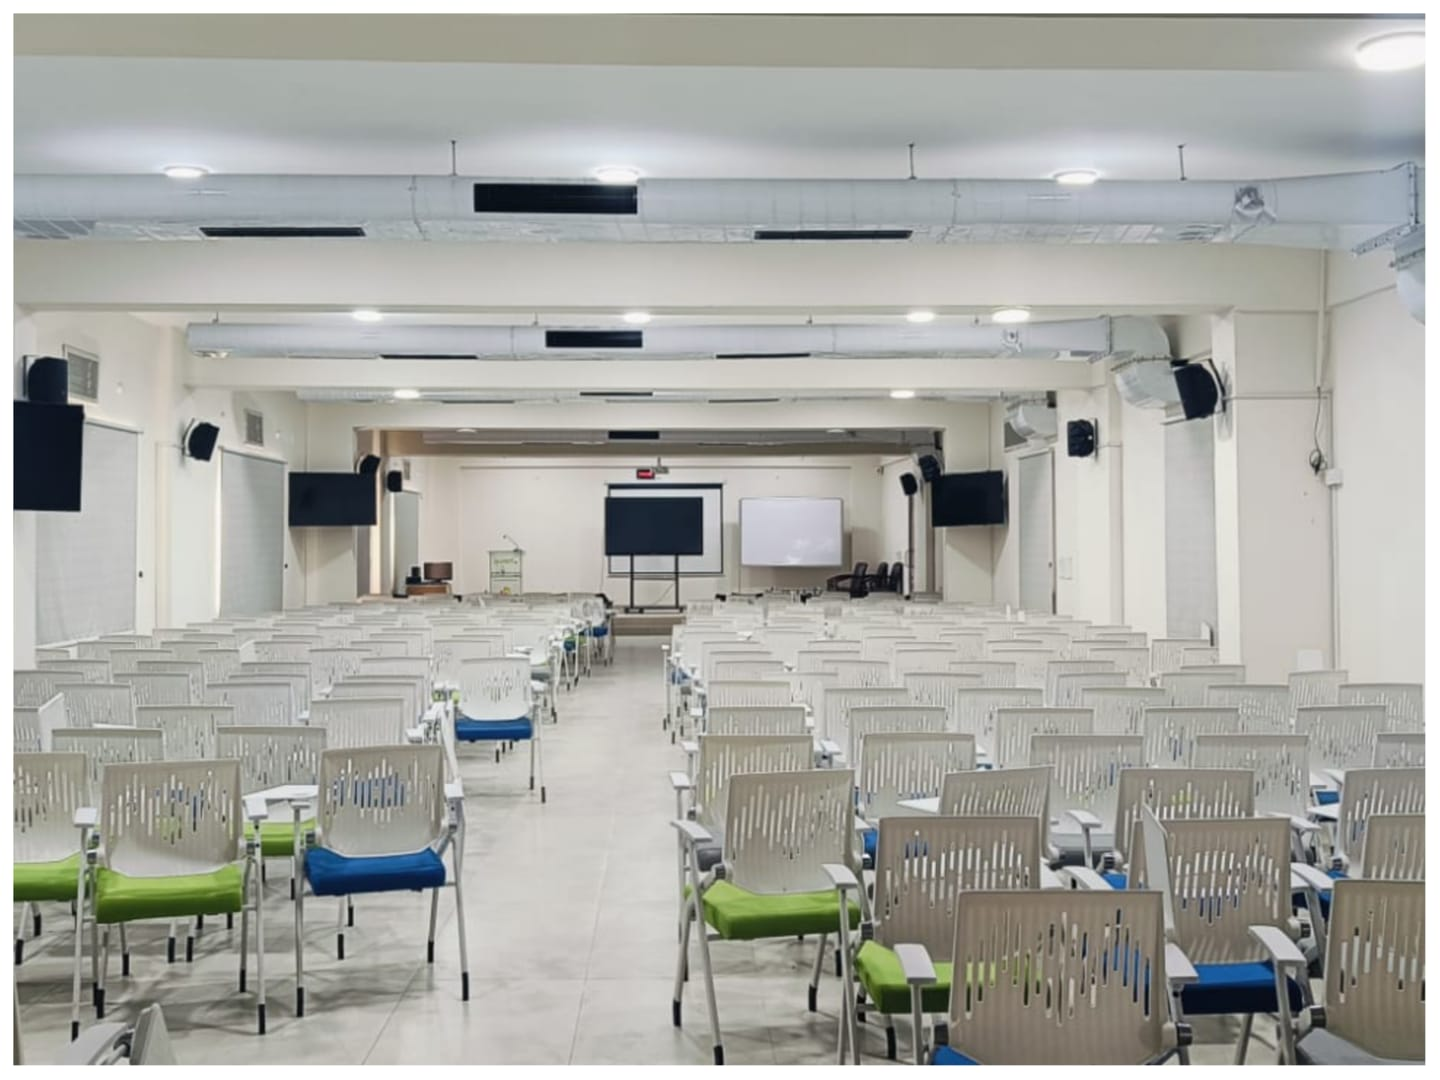
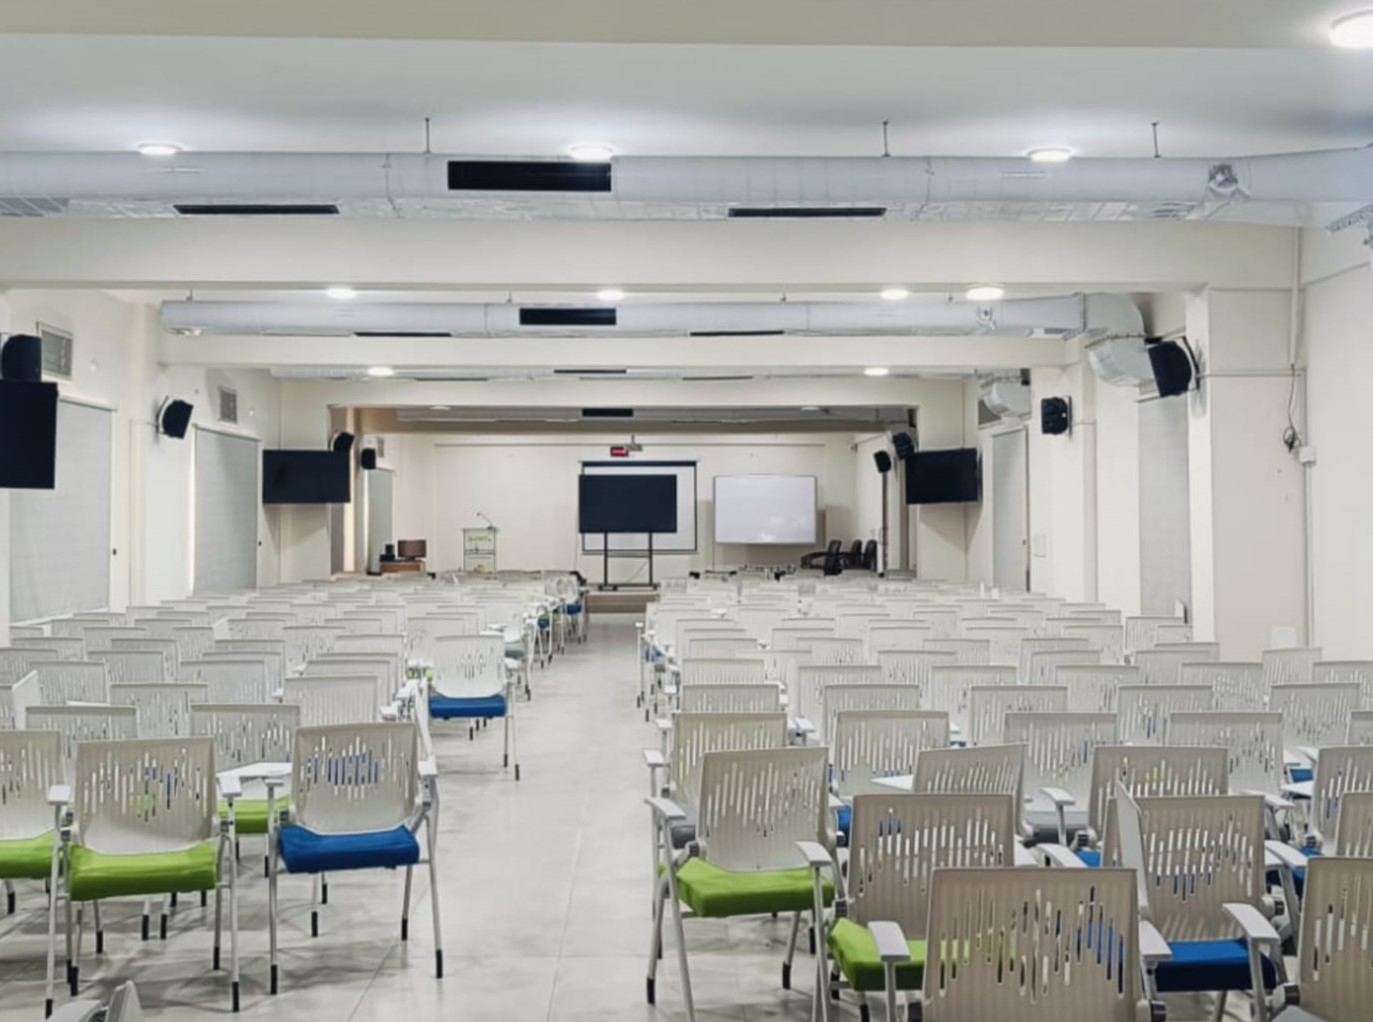
removed bg in cropped img

diff --git a/index.html b/index.html
@@ -855,28 +855,28 @@ Co-Organizer
 
                             <a href="img/SMB(2).jpg" class="portfolio-popup">
                                 <img src="img/SMB(2).jpg" alt="">
-                            <a href="img/BVRITH CLG pic 1" class="portfolio-popup">
+                            <!-- <a href="img/BVRITH CLG pic 1" class="portfolio-popup">
                                 <img src="img/BVRITH CLG pic 1" class="img-fluid" alt="">
                                 <div class="portfolio-overlay">
                                     <div class="portfolio-info">
                                         <h2 class="wow fadeInUp"></h2>
                                     </div>
                                 </div>
-                            </a>
+                            </a> -->
                         </div>
                     </div>
                     <div class="col-lg-3 col-md-6">
                         <div class="portfolio-item wow fadeInUp">
                             <a href="img/SMB Seminar hall 1.jpg" class="portfolio-popup">
                                 <img src="img/SMB Seminar hall 1.jpg" alt="">
-                            <a href="img/seminar hall.jpg" class="portfolio-popup">
+                            <!-- <a href="img/seminar hall.jpg" class="portfolio-popup">
                                 <img src="img/seminar hall.jpg" class="img-fluid" alt="">
                                 <div class="portfolio-overlay">
                                     <div class="portfolio-info">
                                         <h2 class="wow fadeInUp"></h2>
                                     </div>
                                 </div>
-                            </a>
+                            </a> -->
                         </div>
                     </div>
 
@@ -887,7 +887,7 @@ Co-Organizer
                             <a href="img/SMB Seminar hall 2.jpg" class="portfolio-popup">
                                 <img src="img/SMB Seminar hall 2.jpg" alt="">
 
-                            <a href="img/seminar hall2.jpg" class="portfolio-popup">
+                            <!-- <a href="img/seminar hall2.jpg" class="portfolio-popup">
                                 <img src="img/seminar hall2.jpg" class="img-fluid" alt="">
 
                                 <div class="portfolio-overlay">
@@ -895,7 +895,7 @@ Co-Organizer
                                         <h2 class="wow fadeInUp"></h2>
                                     </div>
                                 </div>
-                            </a>
+                            </a> -->
                         </div>
                     </div>
                     <div class="col-lg-3 col-md-6">
